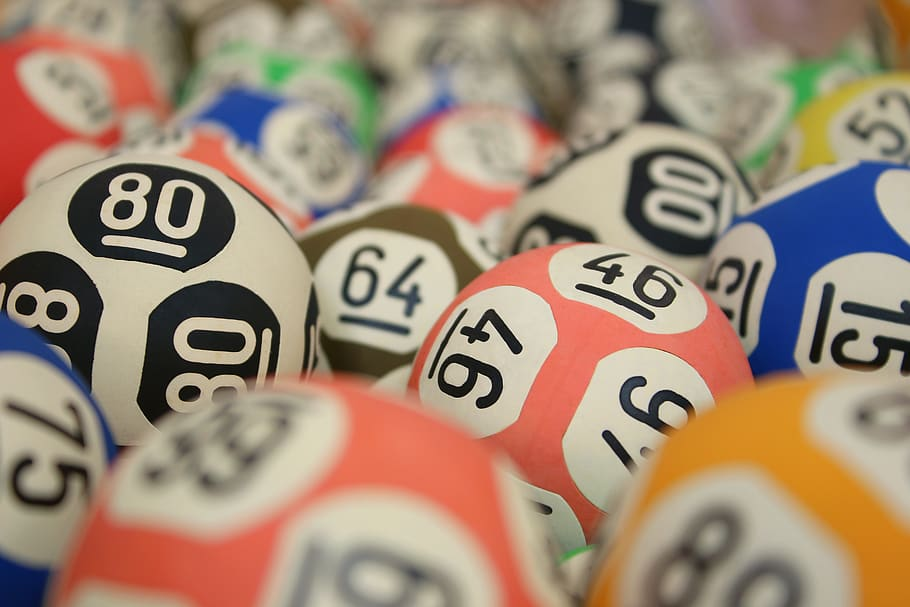
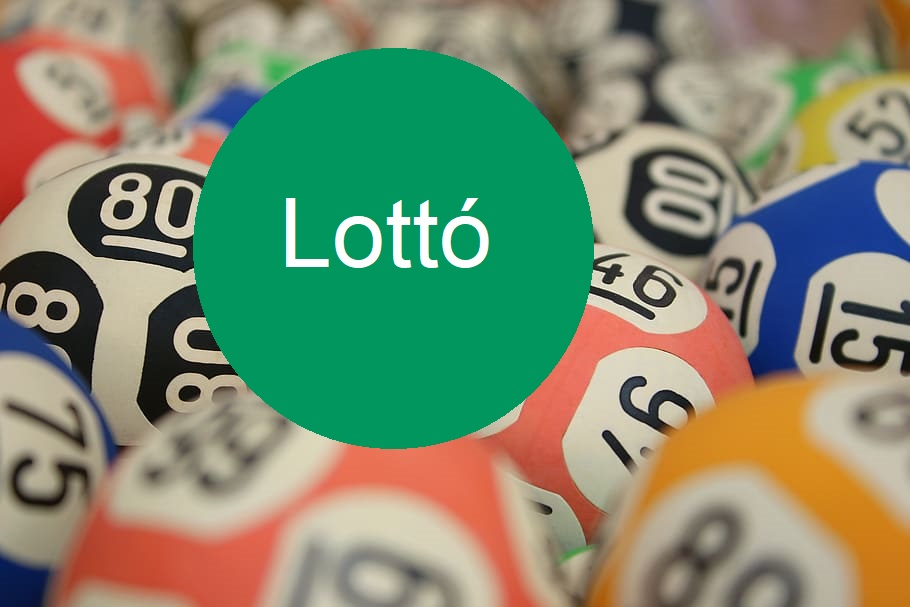
Hátter kép modosítása + link az index .html fájlra

Changed region(s): [[0.1846, 0.0593, 0.6769, 0.7414]]

diff --git a/lotto.html b/lotto.html
@@ -36,7 +36,7 @@
             <span class="dot"></span>
             <div class="gombok">Lottó</div>
             <div class="vertical-menu"> 
-                <a href="#" class="active">Korábbi sorsolások</a>
+                <a href="lotto.html" class="active">Korábbi sorsolások</a>
                 <a href="Leggyakoribbszamok.html">Leggyakoribb számok</a> 
                 <a href="#">Leghasonlóbb számok</a> 
                 <a href="#">Leghosszabb sorozat számsorokban</a> 
